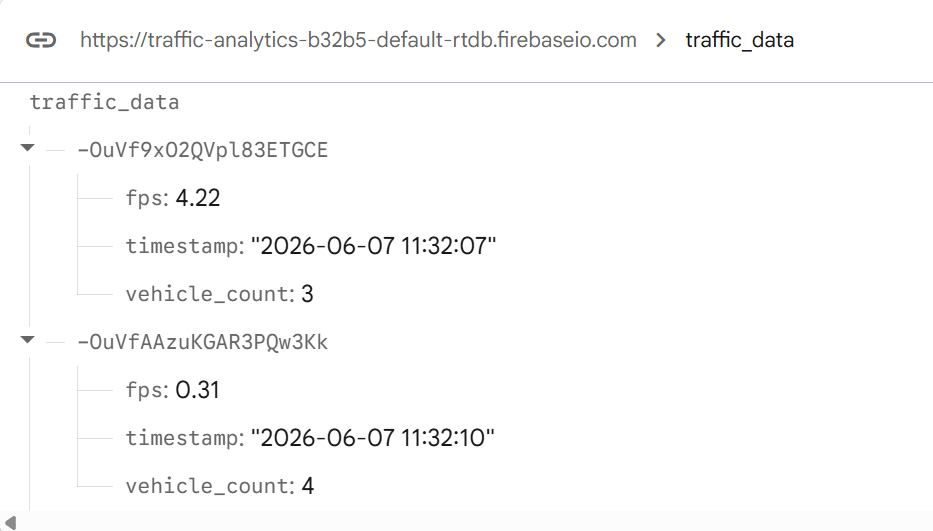
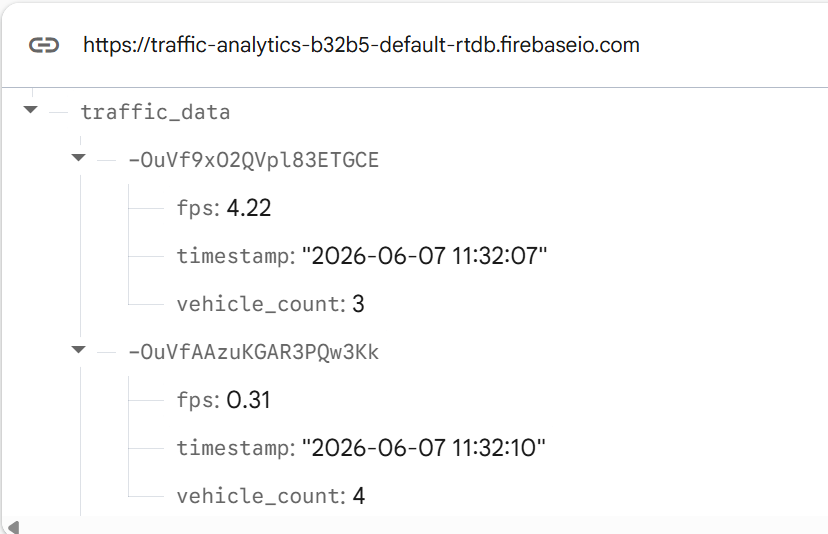
Final project update and documentation

diff --git a/src/pipeline.py b/src/pipeline.py
@@ -17,18 +17,15 @@ def process_video(input_path, output_path):
     height = int(cap.get(cv2.CAP_PROP_FRAME_HEIGHT))
     fps = int(cap.get(cv2.CAP_PROP_FPS))
 
-    out = cv2.VideoWriter(
-        output_path,
-        cv2.VideoWriter_fourcc(*'mp4v'),
-        fps,
-        (width, height)
-    )
+    out = cv2.VideoWriter(output_path,cv2.VideoWriter_fourcc(*'mp4v'),fps,(width, height))
 
+    cv2.namedWindow("Lane + Vehicle Detection", cv2.WINDOW_NORMAL)
+    cv2.resizeWindow("Lane + Vehicle Detection", 1400, 900)
     prev_time = time.time()
     last_upload = time.time()
 
     while cap.isOpened():
-
+        
         ret, frame = cap.read()
 
         if not ret:
@@ -67,7 +64,7 @@ def process_video(input_path, output_path):
 
         # FPS Calculation
         curr_time = time.time()
-        fps_value = 1 / (curr_time - prev_time)
+        fps_value = 1 / max(curr_time - prev_time, 0.0001)
         prev_time = curr_time
 
         # Firebase Upload Every 5 Seconds
@@ -76,46 +73,13 @@ def process_video(input_path, output_path):
             last_upload = curr_time
 
         # Display Information
-        cv2.putText(
-            frame,
-            f"Vehicles: {vehicle_count}",
-            (20, 40),
-            cv2.FONT_HERSHEY_SIMPLEX,
-            1,
-            (255, 0, 0),
-            2
-        )
+        cv2.putText(frame,f"Vehicles: {vehicle_count}",(20, 40),cv2.FONT_HERSHEY_SIMPLEX,1,(255, 0, 0),2)
 
-        cv2.putText(
-            frame,
-            f"FPS: {int(fps_value)}",
-            (20, 80),
-            cv2.FONT_HERSHEY_SIMPLEX,
-            1,
-            (0, 255, 255),
-            2
-        )
+        cv2.putText(frame, f"FPS: {int(fps_value)}",(20, 80),cv2.FONT_HERSHEY_SIMPLEX,1,(0, 255, 255),2)
 
-        cv2.putText(
-            frame,
-            f"Traffic: {density}",
-            (20, 120),
-            cv2.FONT_HERSHEY_SIMPLEX,
-            1,
-            (0, 255, 0),
-            2
-        )
+        cv2.putText(frame, f"Traffic: {density}", (20, 120),cv2.FONT_HERSHEY_SIMPLEX,1,(0, 255, 0),2)
 
-        cv2.putText(
-            frame,
-            lane_status,
-            (20, 160),
-            cv2.FONT_HERSHEY_SIMPLEX,
-            0.8,
-            lane_color,
-            2
-        )
-
+        cv2.putText(frame, lane_status,(20, 160),cv2.FONT_HERSHEY_SIMPLEX,0.8,lane_color,2)
         out.write(frame)
 
         cv2.imshow("Lane + Vehicle Detection", frame)

diff --git a/src/vehicle_detector.py b/src/vehicle_detector.py
@@ -23,7 +23,6 @@ def detect_vehicles(frame):
 
         for box in result.boxes:
 
-            confidence = float(box.conf[0])
             cls = int(box.cls[0])
 
             if cls in [2, 3, 5, 7]:
@@ -53,23 +52,9 @@ def detect_vehicles(frame):
 
                 label = f"ID {current_id} | {model.names[cls]}"
 
-                cv2.rectangle(
-                    frame,
-                    (x1, y1),
-                    (x2, y2),
-                    (0, 0, 255),
-                    2
-                )
+                cv2.rectangle(frame,(x1, y1),(x2, y2),(0, 0, 255),2)
 
-                cv2.putText(
-                    frame,
-                    label,
-                    (x1, y1 - 10),
-                    cv2.FONT_HERSHEY_SIMPLEX,
-                    0.5,
-                    (0, 0, 255),
-                    2
-                )
+                cv2.putText(frame,label,(x1, y1 - 10),cv2.FONT_HERSHEY_SIMPLEX,0.5,(0, 0, 255),2)
 
     tracked_objects = new_tracked
 

diff --git a/src/cloud_logger.py b/src/cloud_logger.py
@@ -5,11 +5,15 @@ from datetime import datetime
 cred = credentials.Certificate("firebase_key.json")
 
 if not firebase_admin._apps:
-    firebase_admin.initialize_app(cred, {
-        "databaseURL": "https://traffic-analytics-b32b5-default-rtdb.firebaseio.com/"
-    })
+    firebase_admin.initialize_app(
+        cred,
+        {
+            "databaseURL": "https://traffic-analytics-b32b5-default-rtdb.firebaseio.com/"
+        }
+    )
 
 def upload_data(vehicle_count, fps):
+
     ref = db.reference("traffic_data")
 
     ref.push({

diff --git a/src/lane_detector.py b/src/lane_detector.py
@@ -35,6 +35,6 @@ def detect_lanes(frame):
 
         cv2.fillPoly(overlay, [lane_area], (0, 255, 0))
 
-    result = cv2.addWeighted(frame, 0.8, overlay, 0.3, 0)
+    result = cv2.addWeighted(frame, 0.7, overlay, 0.5, 0)
 
     return result, left_line, right_line

diff --git a/README.md b/README.md
@@ -1,12 +1,13 @@
-# 🚦 Smart Traffic Analytics System using OpenCV, YOLOv8 and Firebase
+# 🚦 Intelligent Traffic Monitoring and Analytics System using OpenCV, YOLOv8 and Firebase
 
 ## 📖 Overview
 
-This project implements an intelligent traffic analytics system using Python, OpenCV, YOLOv8, and Firebase. The system detects lane boundaries, identifies vehicles on the road, counts vehicles in real time, monitors processing performance through FPS calculation, and uploads traffic statistics to Firebase Realtime Database for cloud-based analytics.
+This project presents a Smart Traffic Analytics System developed using Python, OpenCV, YOLOv8, and Firebase. The system performs real-time lane detection, vehicle detection, vehicle tracking, traffic density classification, lane departure warning generation, and cloud-based traffic analytics. It processes road video streams, monitors traffic conditions, tracks vehicles using unique IDs, measures processing performance through FPS monitoring, and uploads traffic statistics to Firebase Realtime Database for cloud storage and analysis.
 
 ## 🎯 Problem Statement
 
-Traditional traffic monitoring systems require expensive infrastructure and manual analysis. This project provides an intelligent and cost-effective solution for lane detection, vehicle monitoring, traffic analytics, and cloud-based data logging using Computer Vision and AI technologies.
+Traditional traffic monitoring systems often require expensive infrastructure, manual observation, and limited real-time analytics. This project provides an intelligent, cost-effective traffic monitoring solution capable of detecting lane boundaries, tracking vehicles, classifying traffic density, generating lane departure warnings, and storing traffic analytics in the cloud using Computer Vision, Artificial Intelligence, and Firebase technologies.
+
 
 ## ✨ Features
 
@@ -16,7 +17,10 @@ Traditional traffic monitoring systems require expensive infrastructure and manu
 * Hough Line Transform
 * Lane Area Highlighting
 * YOLOv8 Vehicle Detection
+* Vehicle Tracking
 * Vehicle Counting
+* Traffic Density Classification
+* Lane Departure Warning System
 * FPS Monitoring
 * Firebase Realtime Database Integration
 * Cloud-Based Traffic Analytics
@@ -28,6 +32,9 @@ Traditional traffic monitoring systems require expensive infrastructure and manu
 * OpenCV
 * NumPy
 * YOLOv8 (Ultralytics)
+* Firebase Realtime Database
+* Firebase Admin SDK
+* Computer Vision
 * Firebase Realtime Database
 * Firebase Admin SDK
 
@@ -54,11 +61,15 @@ smart-traffic-analytics-system/
 
 1. Read video frames using OpenCV.
 2. Detect lane boundaries using image processing techniques.
-3. Detect vehicles using YOLOv8.
-4. Count detected vehicles.
-5. Calculate real-time FPS.
-6. Upload traffic statistics to Firebase.
-7. Display processed output video.
+3. Detect and classify vehicles using YOLOv8.
+4. Track vehicles using unique IDs.
+5. Count vehicles in real time.
+6. Classify traffic density as Low, Medium, or High.
+7. Generate lane departure warnings.
+8. Calculate real-time FPS.
+9. Upload traffic statistics to Firebase Realtime Database.
+10. Display processed output video with analytics overlays.
+
 
 ## 📋 Output Information
 
@@ -66,19 +77,24 @@ The system displays:
 
 * Lane Area Detection
 * Vehicle Bounding Boxes
+* Vehicle IDs (Tracking)
 * Vehicle Count
+* Traffic Density (Low / Medium / High)
+* Lane Departure Warning
 * FPS Value
 * Cloud Logged Traffic Data
 
-## ☁ Firebase Cloud Logging
+## ☁ Firebase Cloud Analytics
 
-Traffic analytics data is uploaded to Firebase Realtime Database.
+Traffic analytics data is uploaded to Firebase Realtime Database every 5 seconds to balance real-time monitoring and processing performance.
 
 Stored fields:
 
 * Vehicle Count
 * FPS
 * Timestamp
+
+The collected data can be used for traffic monitoring, traffic density analysis, and cloud-based analytics applications.
 
 Example:
 
@@ -92,7 +108,13 @@ Timestamp: 2026-06-07 11:32:07
 
 ✔ Real-time lane detection using OpenCV
 
-✔ Vehicle detection and counting using YOLOv8
+✔ Vehicle detection using YOLOv8
+
+✔ Vehicle tracking and counting
+
+✔ Traffic density classification
+
+✔ Lane departure warning system
 
 ✔ FPS monitoring for performance analysis
 
@@ -102,10 +124,10 @@ Timestamp: 2026-06-07 11:32:07
 
 ## 🚀 Future Enhancements
 
-* Lane Departure Warning System
 * Vehicle Speed Estimation
 * Distance Estimation
-* Car/Truck/Bus Classification
+* DeepSORT / ByteTrack Integration
+* Collision Warning System
 * Curved Lane Detection
 * ADAS Dashboard
 * Cloud Analytics Dashboard
@@ -116,8 +138,11 @@ Timestamp: 2026-06-07 11:32:07
 The Smart Traffic Analytics System successfully:
 
 - Detects and highlights road lanes
-- Identifies vehicles using YOLOv8
+- Detects and tracks vehicles using YOLOv8
+- Assigns unique IDs to vehicles
 - Counts vehicles in real time
+- Classifies traffic density as Low, Medium, or High
+- Generates lane departure warnings
 - Calculates processing FPS
 - Uploads traffic analytics to Firebase Realtime Database
 - Provides a foundation for future ADAS applications
@@ -132,9 +157,9 @@ The Smart Traffic Analytics System successfully:
 
 ![Firebase Dashboard](assets/firebase_dashboard.png)
 
-## Author
+## 👩💻 Author
 
 **Shwethashree S**
 
-B.Tech Information Science and Engineering
+B.Tech – Information Science and Engineering  
 Presidency University, Bangalore
